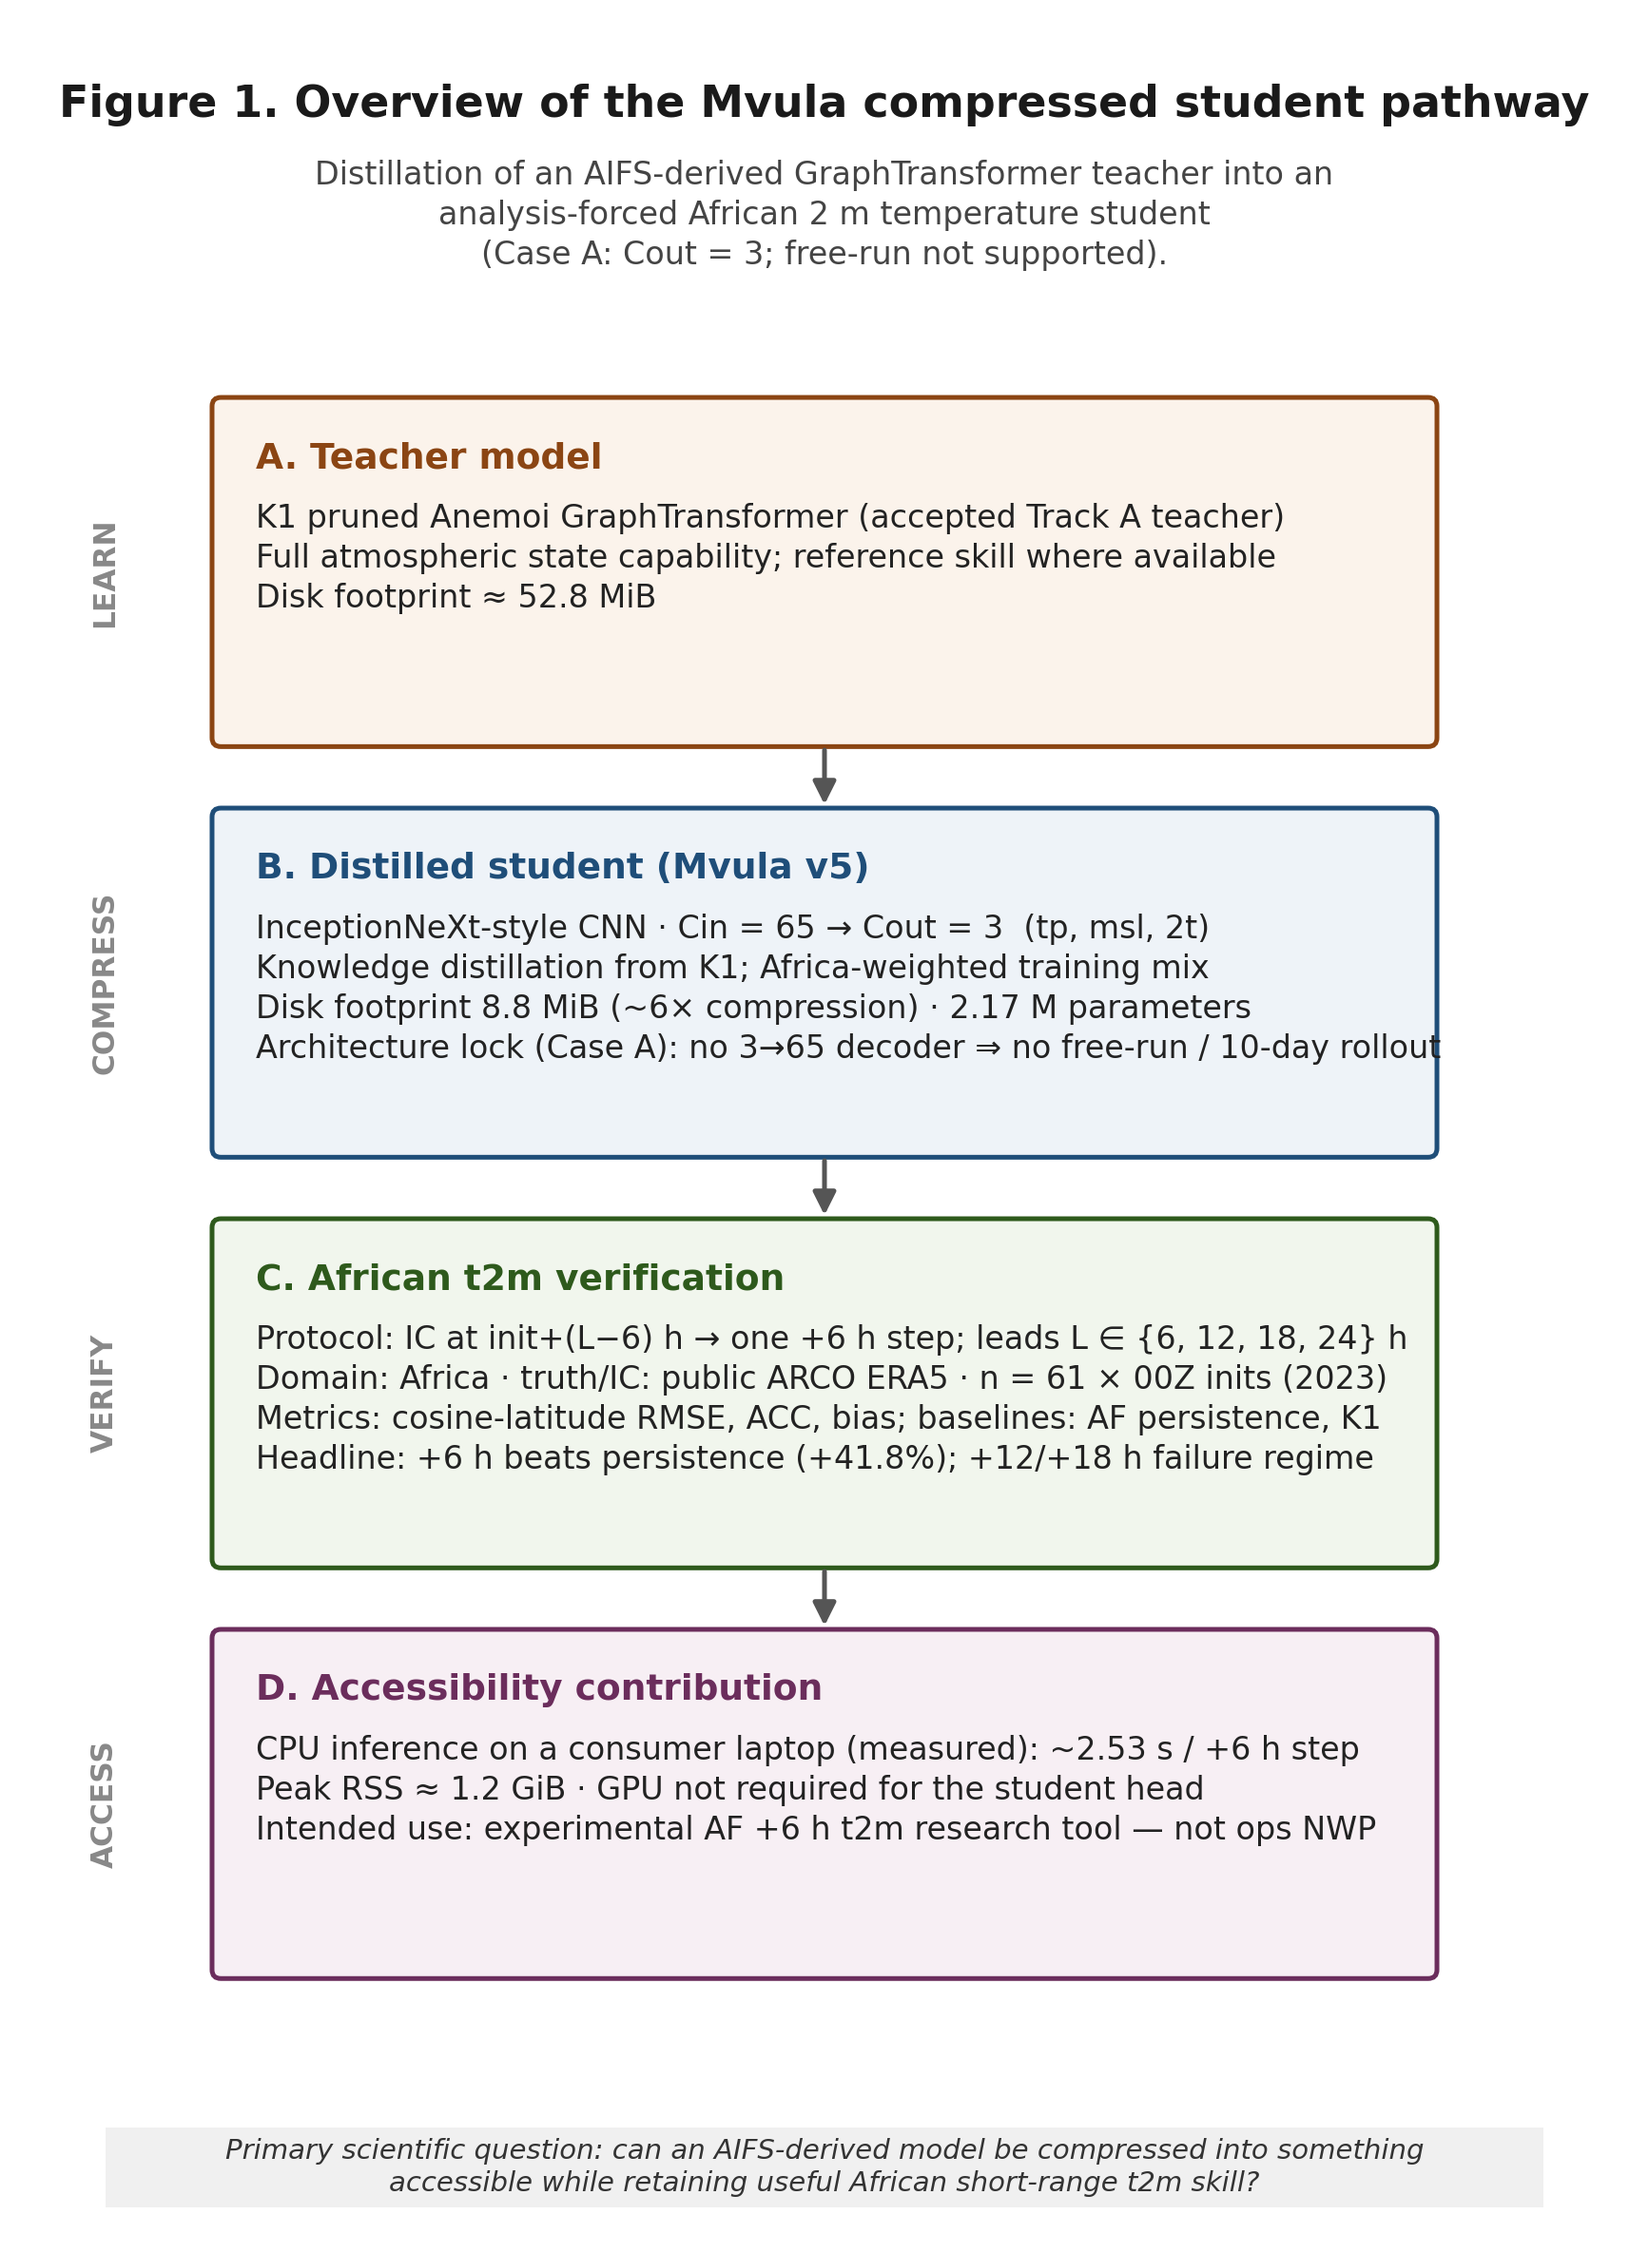
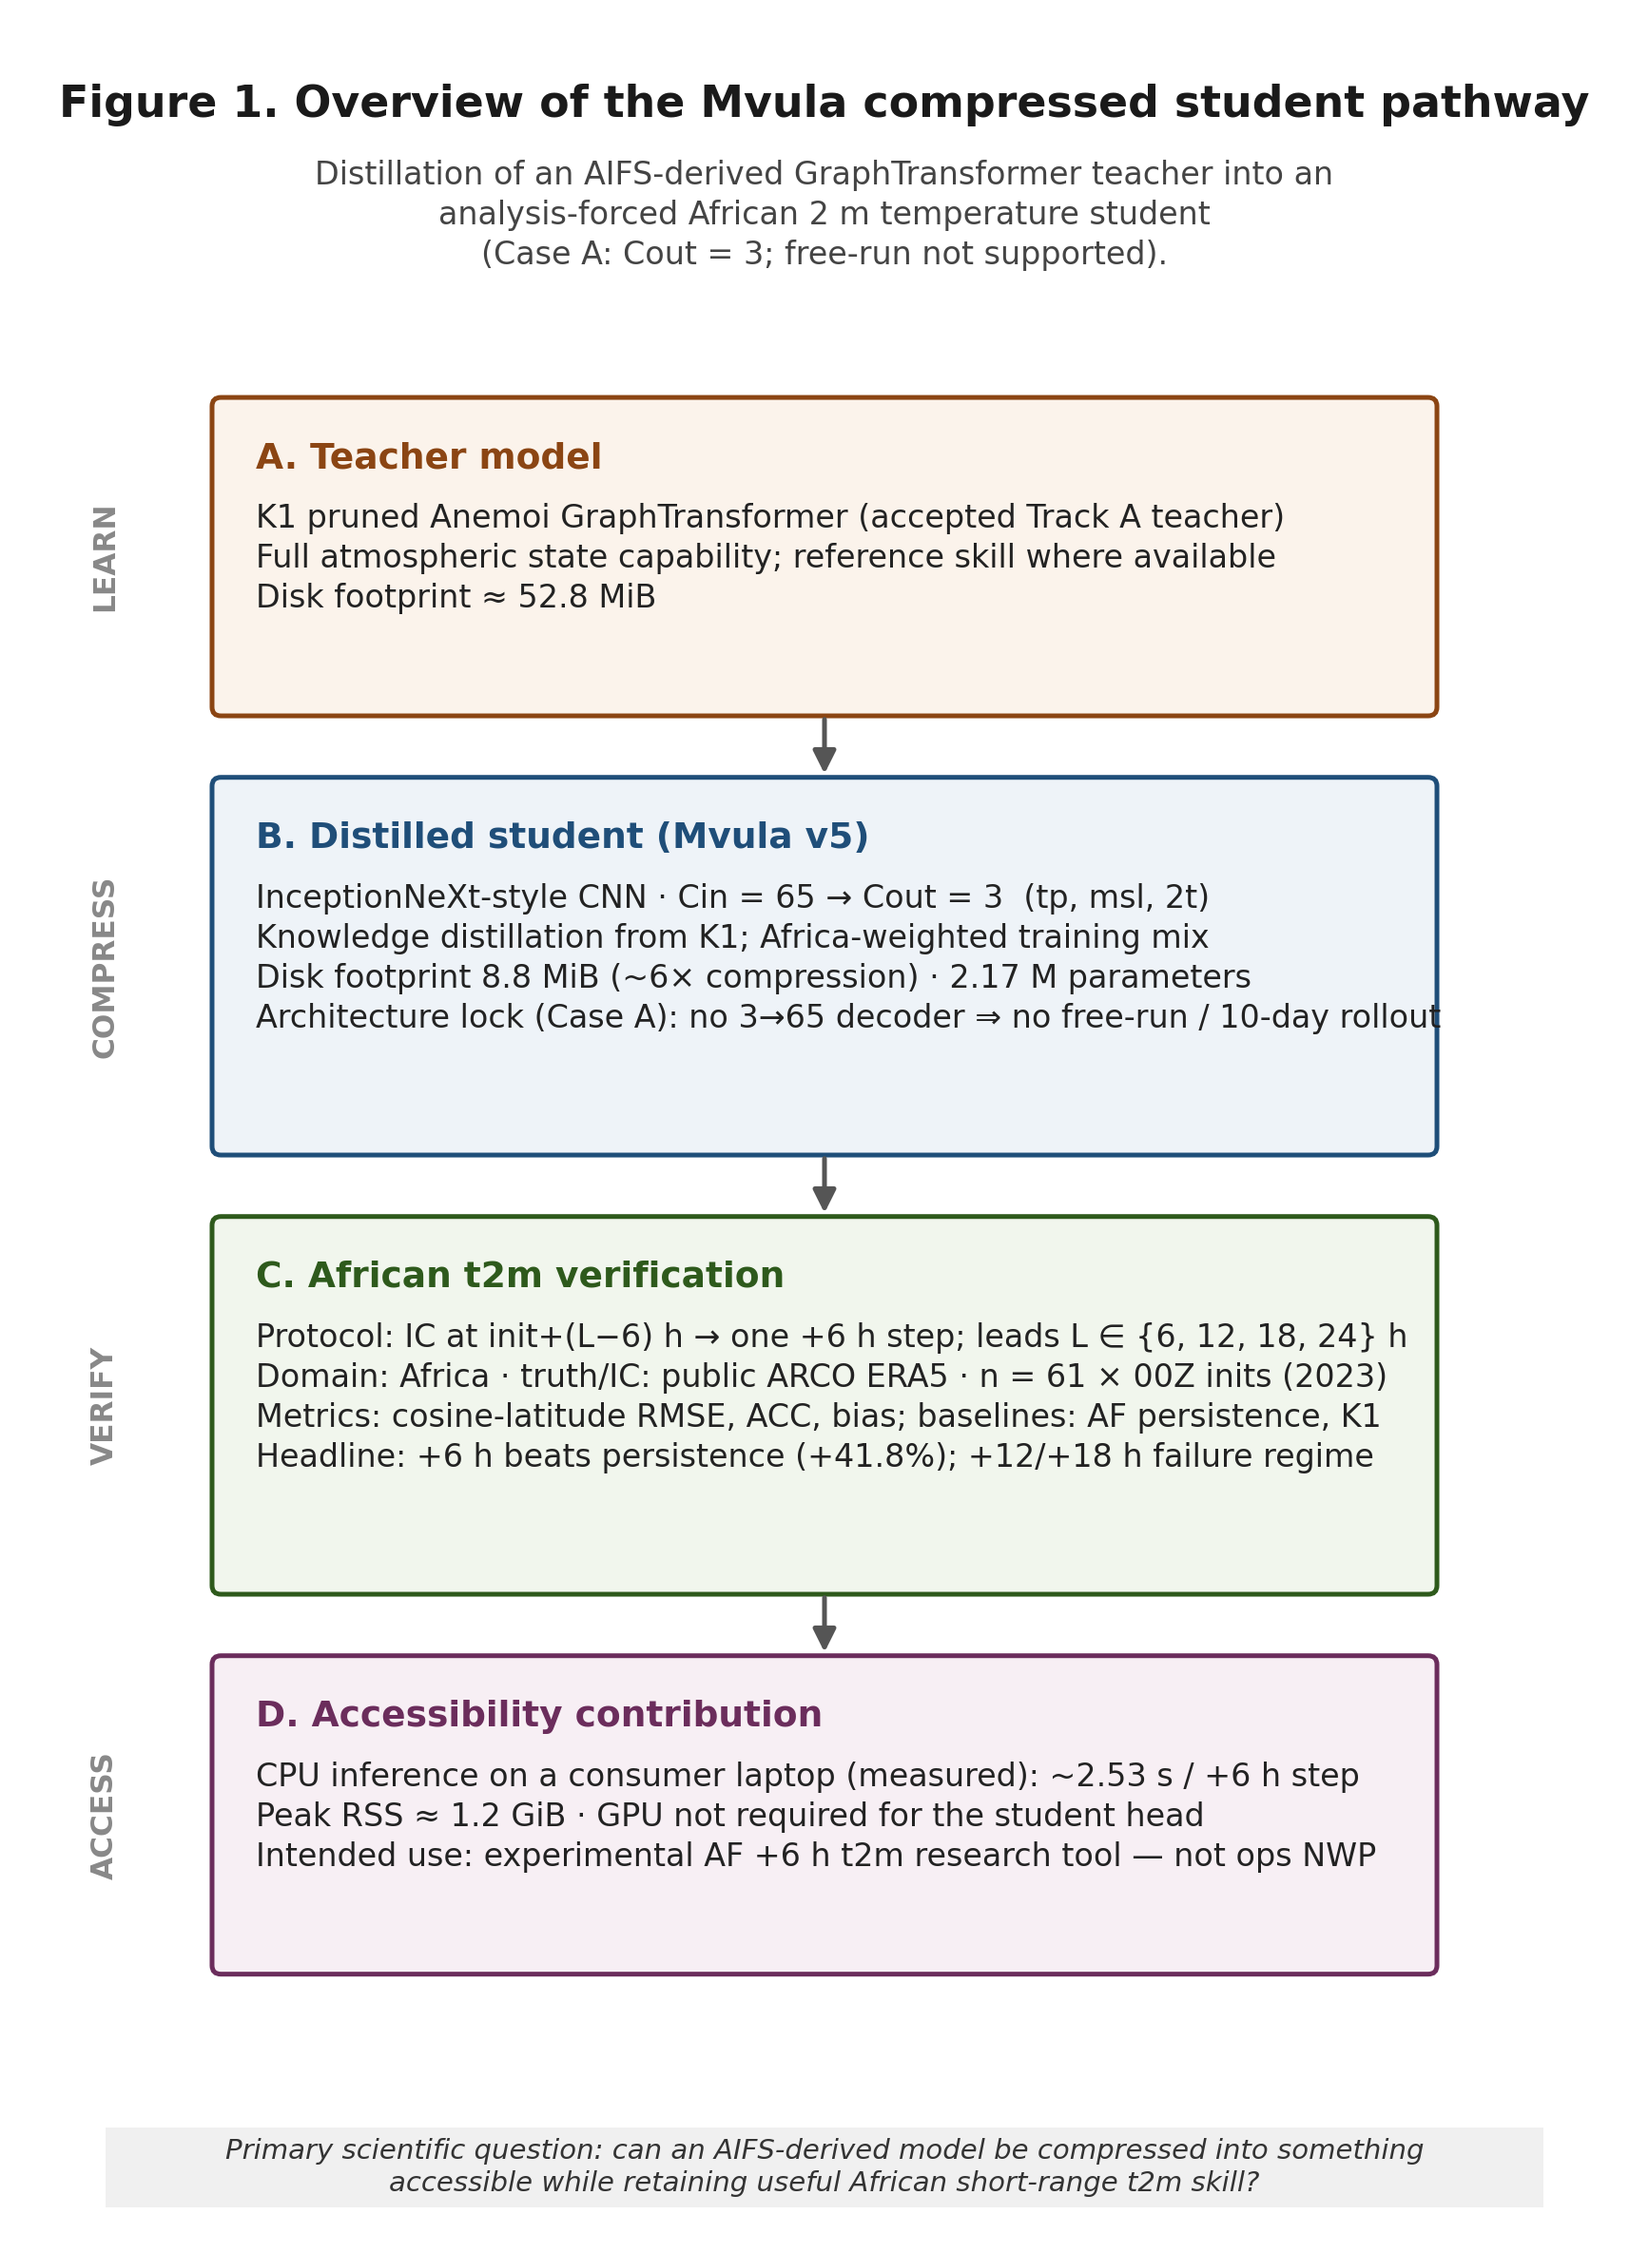
Trim publication Fig.1 boxes to content height with no empty bottom padding.

diff --git a/scripts/plot_mvula_report_fig02_fig03.py b/scripts/plot_mvula_report_fig02_fig03.py
@@ -204,11 +204,12 @@ def fig1_pipeline_publication() -> None:
         linespacing=1.35,
     )
 
-    # Uniform box geometry modelled on panel A (tight title→body spacing)
+    # Uniform title→body gap; box height fits content (no empty space below text)
     x0, w = 0.85, 5.5
-    box_h = 1.55  # same height for A–D
     title_pad = 0.18
-    title_to_body = 0.28  # same for every panel
+    title_to_body = 0.28
+    line_h = 0.27
+    bot_pad = 0.14  # minimal padding under last line
     arrow_gap = 0.32
 
     specs = [
@@ -260,12 +261,16 @@ def fig1_pipeline_publication() -> None:
         ),
     ]
 
+    heights = [
+        title_pad + title_to_body + len(lines) * line_h + bot_pad for _, _, lines, _, _ in specs
+    ]
+
     # Stack from top (clear of subtitle)
     y_top = 8.30
     ys = []
     cursor = y_top
-    for _ in specs:
-        y = cursor - box_h
+    for h in heights:
+        y = cursor - h
         ys.append(y)
         cursor = y - arrow_gap
 
@@ -294,10 +299,10 @@ def fig1_pipeline_publication() -> None:
             linespacing=1.35,
         )
 
-    for i, ((phase, title, lines, edge, face), y) in enumerate(zip(specs, ys)):
+    for i, ((phase, title, lines, edge, face), y, h) in enumerate(zip(specs, ys, heights)):
         ax.text(
             0.28,
-            y + box_h / 2,
+            y + h / 2,
             phase,
             ha="left",
             va="center",
@@ -306,12 +311,12 @@ def fig1_pipeline_publication() -> None:
             color="#888888",
             rotation=90,
         )
-        panel(x0, y, w, box_h, title, lines, edge, face)
+        panel(x0, y, w, h, title, lines, edge, face)
         if i < len(specs) - 1:
-            y_next = ys[i + 1]
+            y_next, h_next = ys[i + 1], heights[i + 1]
             arr = FancyArrowPatch(
                 (3.6, y),
-                (3.6, y_next + box_h),
+                (3.6, y_next + h_next),
                 arrowstyle="-|>",
                 mutation_scale=12,
                 linewidth=1.2,
